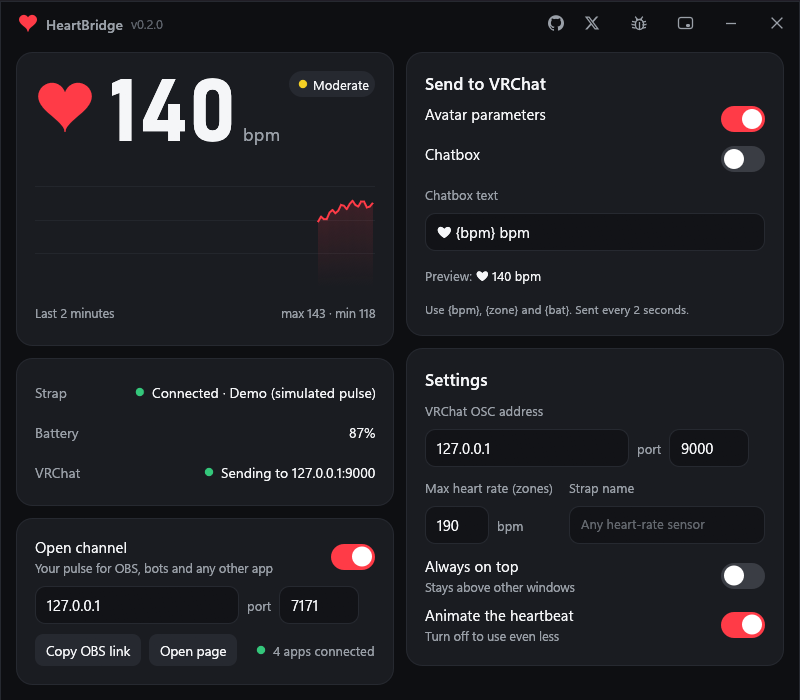
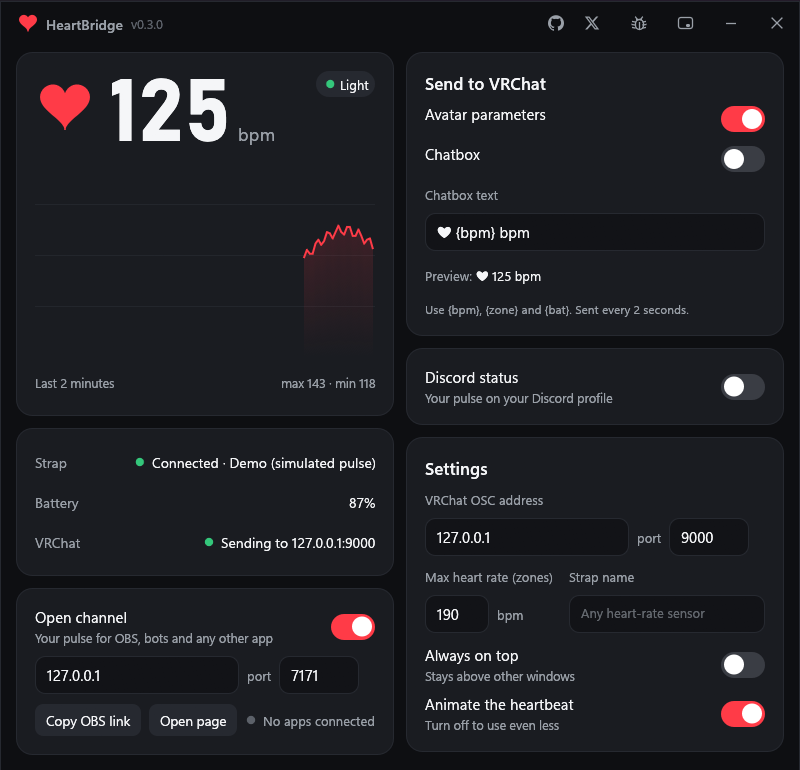
Release 0.3.0

diff --git a/CHANGELOG.md b/CHANGELOG.md
@@ -4,7 +4,7 @@ All notable changes to HeartBridge are listed here. The format follows
 [Keep a Changelog](https://keepachangelog.com/en/1.1.0/), and versions follow
 [Semantic Versioning](https://semver.org/).
 
-## [Unreleased]
+## [0.3.0] - 2026-11-18
 
 ### Added
 
@@ -56,6 +56,6 @@ First release.
 - Debug window with the raw strap packets, the OSC state and a copyable event log.
 - Windows, Linux (X11 and Wayland) and macOS builds.
 
-[Unreleased]: https://github.com/setsumi-vrc/heartbridge/compare/v0.2.0...HEAD
+[0.3.0]: https://github.com/setsumi-vrc/heartbridge/compare/v0.2.0...v0.3.0
 [0.2.0]: https://github.com/setsumi-vrc/heartbridge/compare/v0.1.0...v0.2.0
 [0.1.0]: https://github.com/setsumi-vrc/heartbridge/releases/tag/v0.1.0
